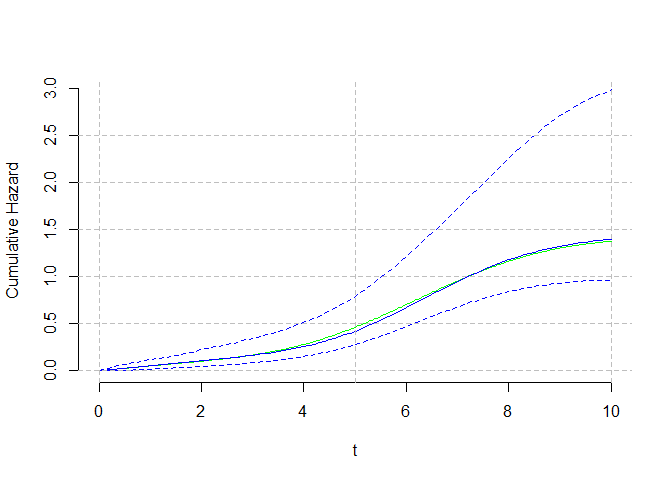
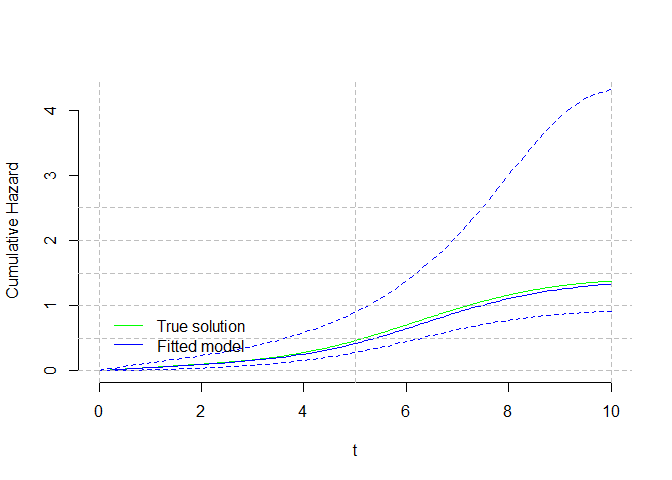
Initial commit

diff --git a/README.md b/README.md
@@ -6,8 +6,13 @@
 <!-- badges: start -->
 <!-- badges: end -->
 
-There is no R software available for the direct estimation of hazards
-with uncertainty estimation (confidence intervals).
+Survival hazards are used in regression (Cox proportional hazards
+models) but rarely reported or visualized in descriptive analyses, where
+Kaplan-Meier cumulative survival and at best Nelson-Aalen cumulative
+hazard are commonly used. It turns out that describing survival hazards
+can be very informative, allowing to spot “instantaneous” patterns that
+are not visible in cumulative measures of hazard and survival, which in
+fact can be derived from hazard functions.
 
 The primary goal of SplineHazardRegression is to make available the
 methods for flexible estimation of hazards using (cubic) b-splines
@@ -18,12 +23,12 @@ B-Splines” In Biometrics, Vol. 51, No. 3 (Sep., 1995), pp. 874-887
 (both meaning that patients are followed-up for unequal times).
 
 The package also allows the flexible estimation of the cumulative hazard
-and cumulative survival functions, as well as the computation of
+and cumulative survival functions, and (in progress) the computation of
 aggregate measures for those (average, median, interquartile range,
 etc).
 
-Different methods for the automatic selection of knots and for variance
-estimation are implemented.
+The automatic selection of knots and bootstrap variance estimation have
+been implemented.
 
 ## Installation
 
@@ -72,24 +77,19 @@ hist( SimDat$time[ which(SimDat$status==0)], main="", xlab="t", breaks="Freedman
    # SimDat = yd0
    timeout = seq( 0, 10, length.out = 101 )
    # Result = hspcore(yd=SimDat, ORDER=4, knots=c(0,1,3,6,10), time=timeout, Bootstrap = 120, verbose=FALSE )   
-   Result = hspcore(yd=SimDat, ORDER=4, Exterior.knots = c(0,10), Interior.knots=NULL, SelectBestKnots = TRUE, time=timeout, Bootstrap = 220, verbose=FALSE )  
+   Result = hspcore(yd=SimDat, ORDER=4, Exterior.knots = c(0,10), Interior.knots=NULL, SelectBestKnots = TRUE, time=timeout, Bootstrap = 200, verbose=FALSE )  
 #> [1] "Automatic search for K the number of interior knots of the B-spline hazard function"
-#> [1] "K= 1 AICc=276.663168661205 knots= 0 0.5 1"
-#> [1] "K= 2 AICc=270.745130690711 knots= 0 0.4 0.6 1"
-#> [1] "K= 3 AICc=271.361819043669 knots= 0 0.4 0.5 0.7 1"
-#> [1] "K= 4 AICc=272.418478398915 knots= 0 0.3 0.5 0.6 0.7 1"
-#> [1] "K= 5 AICc=274.639288244576 knots= 0 0.2 0.4 0.5 0.6 0.7 1"
-#> [1] "K= 6 AICc=275.484203868168 knots= 0 0.2 0.4 0.5 0.6 0.6 0.7 1"
-#> [1] "K= 7 AICc=277.113332549397 knots= 0 0.2 0.4 0.4 0.5 0.6 0.7 0.8 1"
-#> [1] "K= 8 AICc=279.377087603384 knots= 0 0.1 0.3 0.4 0.5 0.6 0.6 0.7 0.8 1"
+#> [1] "K= 1 AICc=291.454100954995 knots= 0 5.1 10"
+#> [1] "K= 2 AICc=289.735447782933 knots= 0 4.1 6 10"
+#> [1] "K= 3 AICc=291.259088166863 knots= 0 3.2 5.1 6.7 10"
+#> [1] "K= 4 AICc=293.260029150116 knots= 0 2.9 4.6 5.7 6.9 10"
+#> [1] "K= 5 AICc=295.00591310047 knots= 0 2.4 4.1 5.1 6 7.1 10"
+#> [1] "K= 6 AICc=297.449056769988 knots= 0 2.2 3.6 4.7 5.6 6.5 7.3 10"
+#> [1] "K= 7 AICc=298.921782713427 knots= 0 2.1 3.2 4.4 5.1 5.9 6.7 7.5 10"
+#> [1] "K= 8 AICc=298.284338898161 knots= 0 1.6 3 4.1 4.8 5.4 6 6.8 7.6 10"
 #> [1] "SEARCH RESULT: We use 2 interior B-spline knots"
-#> [1] "K= 2 DOF= 6 knots= 0 0.4 0.6 1"
+#> [1] "K= 2 DOF= 6 knots= 0 4.1 6 10"
 #> [1] "Variance estimation using bootstrap"
-   
-   table( c("L-BFGS-B","PORT","None")[ Result$convergenceb[,3] ] )
-#> 
-#> L-BFGS-B     PORT 
-#>      124       96
 ```
 
 <img src="man/figures/README-result-figures-side-1.png" width="50%" /><img src="man/figures/README-result-figures-side-2.png" width="50%" /><img src="man/figures/README-result-figures-side-3.png" width="50%" /><img src="man/figures/README-result-figures-side-4.png" width="50%" />
